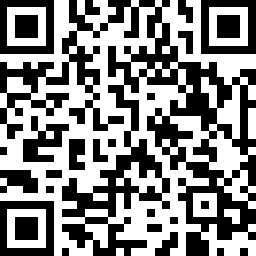
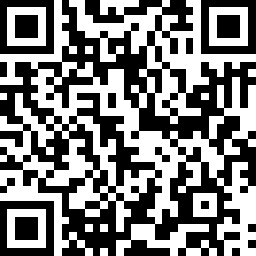
fix docs

diff --git a/README.md b/README.md
@@ -3,7 +3,7 @@ a simple demo that a airplane is running and can have a collision with bullet.
 
 ## Preview
 #### URL
-https://sparkxxxxxx.github.io/RingtossJs/src/   
+https://sparkxxxxxx.github.io/HitPlaneJS/src/index.html
 #### QRCode
 ![QRCode](src/assets/QRCode.png)  
 
